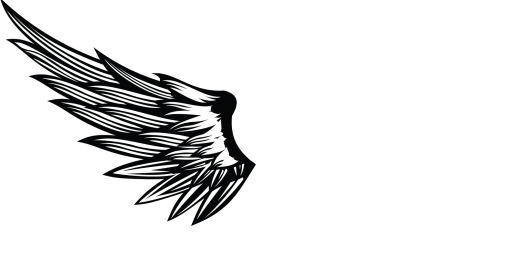
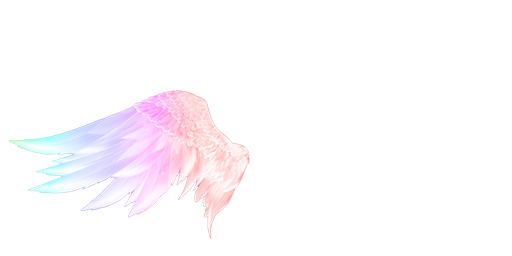
[client] update for latest server

Changed region(s): [[0.0, 0.0, 0.5, 0.9062]]

diff --git a/src/game/client/components/players.cpp b/src/game/client/components/players.cpp
@@ -276,25 +276,31 @@ void CPlayers::RenderPlayer(
 
 		int EquipItem = m_pClient->m_aClients[ClientID].m_aEquipItems[EQUIP_WINGS];
 		int EnchantItem = m_pClient->m_aClients[ClientID].m_aEnchantItems[EQUIP_WINGS];
-		if (g_Config.m_ClShowMEffects != 2 && EquipItem == 23 && EnchantItem >= EFFECTENCHANT)
+		if (g_Config.m_ClShowMEffects != 2 && EquipItem == 19 && EnchantItem >= EFFECTENCHANT)
 		{
 			vec4 Color = vec4(1.75f, 0.0f, 0.0f, 0.01f);
 			m_pClient->m_pEffects->WingsEffect(vec2(Position.x - 60, Position.y - 20), Direction, Color);
 			m_pClient->m_pEffects->WingsEffect(vec2(Position.x + 60, Position.y - 20), Direction, Color);
 		}
-		if (g_Config.m_ClShowMEffects != 2 && EquipItem == 25 && EnchantItem >= EFFECTENCHANT)
+		if (g_Config.m_ClShowMEffects != 2 && EquipItem == 20 && EnchantItem >= EFFECTENCHANT)
 		{
 			vec4 Color = vec4(0.2f, 0.2f, 1.75f, 0.01f);
 			m_pClient->m_pEffects->WingsEffect(vec2(Position.x - 60, Position.y - 20), Direction, Color);
 			m_pClient->m_pEffects->WingsEffect(vec2(Position.x + 60, Position.y - 20), Direction, Color);
 		}
-		if (g_Config.m_ClShowMEffects != 2 && EquipItem == 27 && EnchantItem >= EFFECTENCHANT)
+		if (g_Config.m_ClShowMEffects != 2 && EquipItem == 21 && EnchantItem >= EFFECTENCHANT)
+		{
+			vec4 Color = vec4(0.2f, 0.2f, 1.75f, 0.01f);
+			m_pClient->m_pEffects->WingsEffect(vec2(Position.x - 60, Position.y - 20), Direction, Color);
+			m_pClient->m_pEffects->WingsEffect(vec2(Position.x + 60, Position.y - 20), Direction, Color);
+		}
+		if (g_Config.m_ClShowMEffects != 2 && EquipItem == 22 && EnchantItem >= EFFECTENCHANT)
 		{
 			vec4 Color = vec4(1.0f, 1.0f, 0.0f, 0.01f);
 			m_pClient->m_pEffects->WingsEffect(vec2(Position.x - 60, Position.y - 20), Direction, Color);
 			m_pClient->m_pEffects->WingsEffect(vec2(Position.x + 60, Position.y - 20), Direction, Color);
 		}
-		if (g_Config.m_ClShowMEffects != 2 && EquipItem == 28 && EnchantItem >= EFFECTENCHANT)
+		if (g_Config.m_ClShowMEffects != 2 && EquipItem == 23 && EnchantItem >= EFFECTENCHANT)
 		{
 			vec4 Color = vec4(0.1f + frandom() * 0.9f, 0.1f + frandom() * 0.9f, 0.1f + frandom() * 0.9f, 0.01f);
 			m_pClient->m_pEffects->WingsEffect(vec2(Position.x - 60, Position.y - 20), Direction, Color);

diff --git a/src/game/client/render.cpp b/src/game/client/render.cpp
@@ -344,20 +344,20 @@ void CRenderTools::RenderPicItems(CAnimState* pAnim, int RenderNum, vec2 Dir, ve
 				// test effects
 				switch (RenderNum)
 				{
+				case 19: // items wings
+					RenderWings(pAnim, IMAGE_WINGSIT19, vec2(130, 70), Position, 200, 90);
+					break;
+				case 20: // items wings
+					RenderWings(pAnim, IMAGE_WINGSIT20, vec2(115, 60), Position);
+					break;
+				case 21: // items wings
+					RenderWings(pAnim, IMAGE_WINGSIT21, vec2(115, 64), Position);
+					break;
+				case 22: // items wings
+					RenderWings(pAnim, IMAGE_WINGSIT22, vec2(115, 74), Position);
+					break;
 				case 23: // items wings
-					RenderWings(pAnim, IMAGE_WINGSIT23, vec2(130, 70), Position, 200, 90);
-					break;
-				case 24: // items wings
-					RenderWings(pAnim, IMAGE_WINGSIT24, vec2(115, 60), Position);
-					break;
-				case 25: // items wings
-					RenderWings(pAnim, IMAGE_WINGSIT25, vec2(115, 64), Position);
-					break;
-				case 27: // items wings
-					RenderWings(pAnim, IMAGE_WINGSIT27, vec2(115, 74), Position);
-					break;
-				case 28: // items wings
-					RenderWings(pAnim, IMAGE_WINGSIT28, vec2(115, 70), Position);
+					RenderWings(pAnim, IMAGE_WINGSIT23, vec2(115, 70), Position);
 					break;
 				}
 			}

diff --git a/datasrc/content.py b/datasrc/content.py
@@ -251,11 +251,11 @@ image_chatwhisper = Image("chatwhisper", "ui/icons/chat_whisper.png", 1)
 # mmotee
 image_mmotee = Image("mmoeffect", "effx/mmotee.png")
 image_teleport = Image("teleporteffect", "effx/teleport.png")
-image_wingit23 = Image("wingsit23", "wings/it23.png")
-image_wingit24 = Image("wingsit24", "wings/it24.png")
-image_wingit25 = Image("wingsit25", "wings/it25.png")
-image_wingit27 = Image("wingsit27", "wings/it27.png")
-image_wingit28 = Image("wingsit28", "wings/it28.png")
+image_wingit23 = Image("wingsit19", "wings/it19.png")
+image_wingit24 = Image("wingsit20", "wings/it20.png")
+image_wingit25 = Image("wingsit21", "wings/it21.png")
+image_wingit27 = Image("wingsit22", "wings/it22.png")
+image_wingit28 = Image("wingsit23", "wings/it23.png")
 image_mmogame = Image("mmogame", "mmogame.png")
 
 container.images.Add(image_null)
